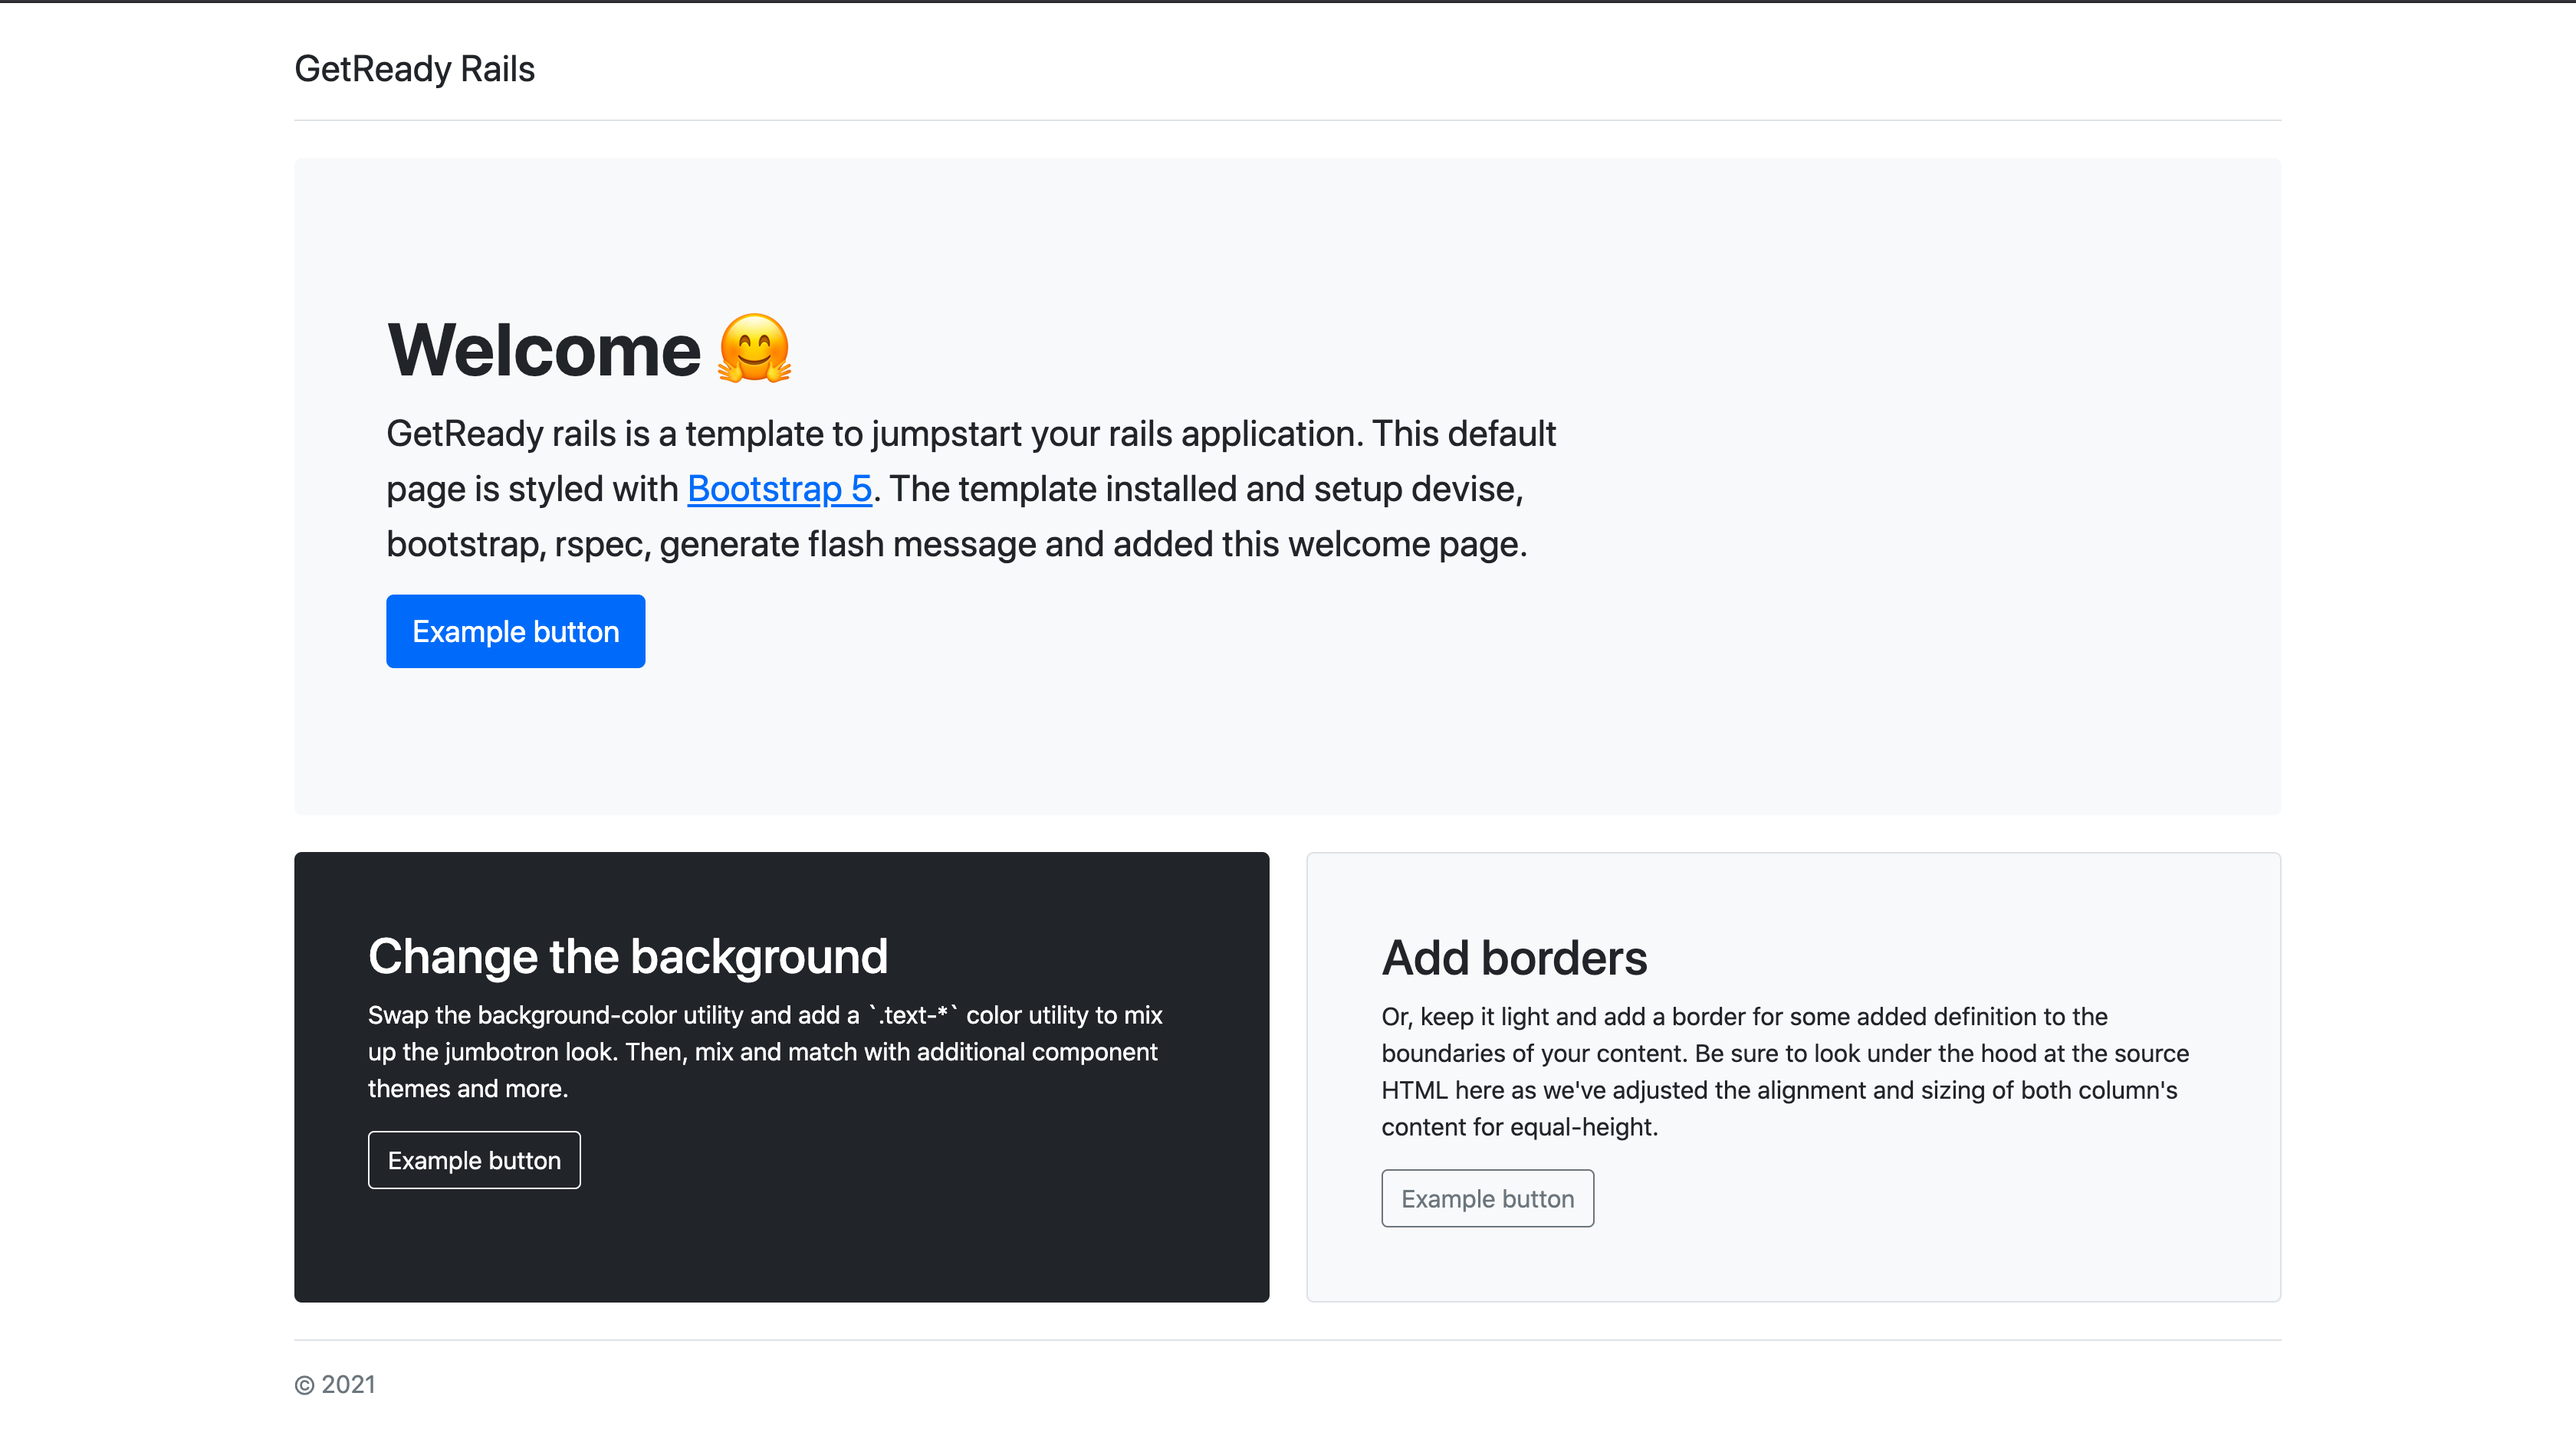
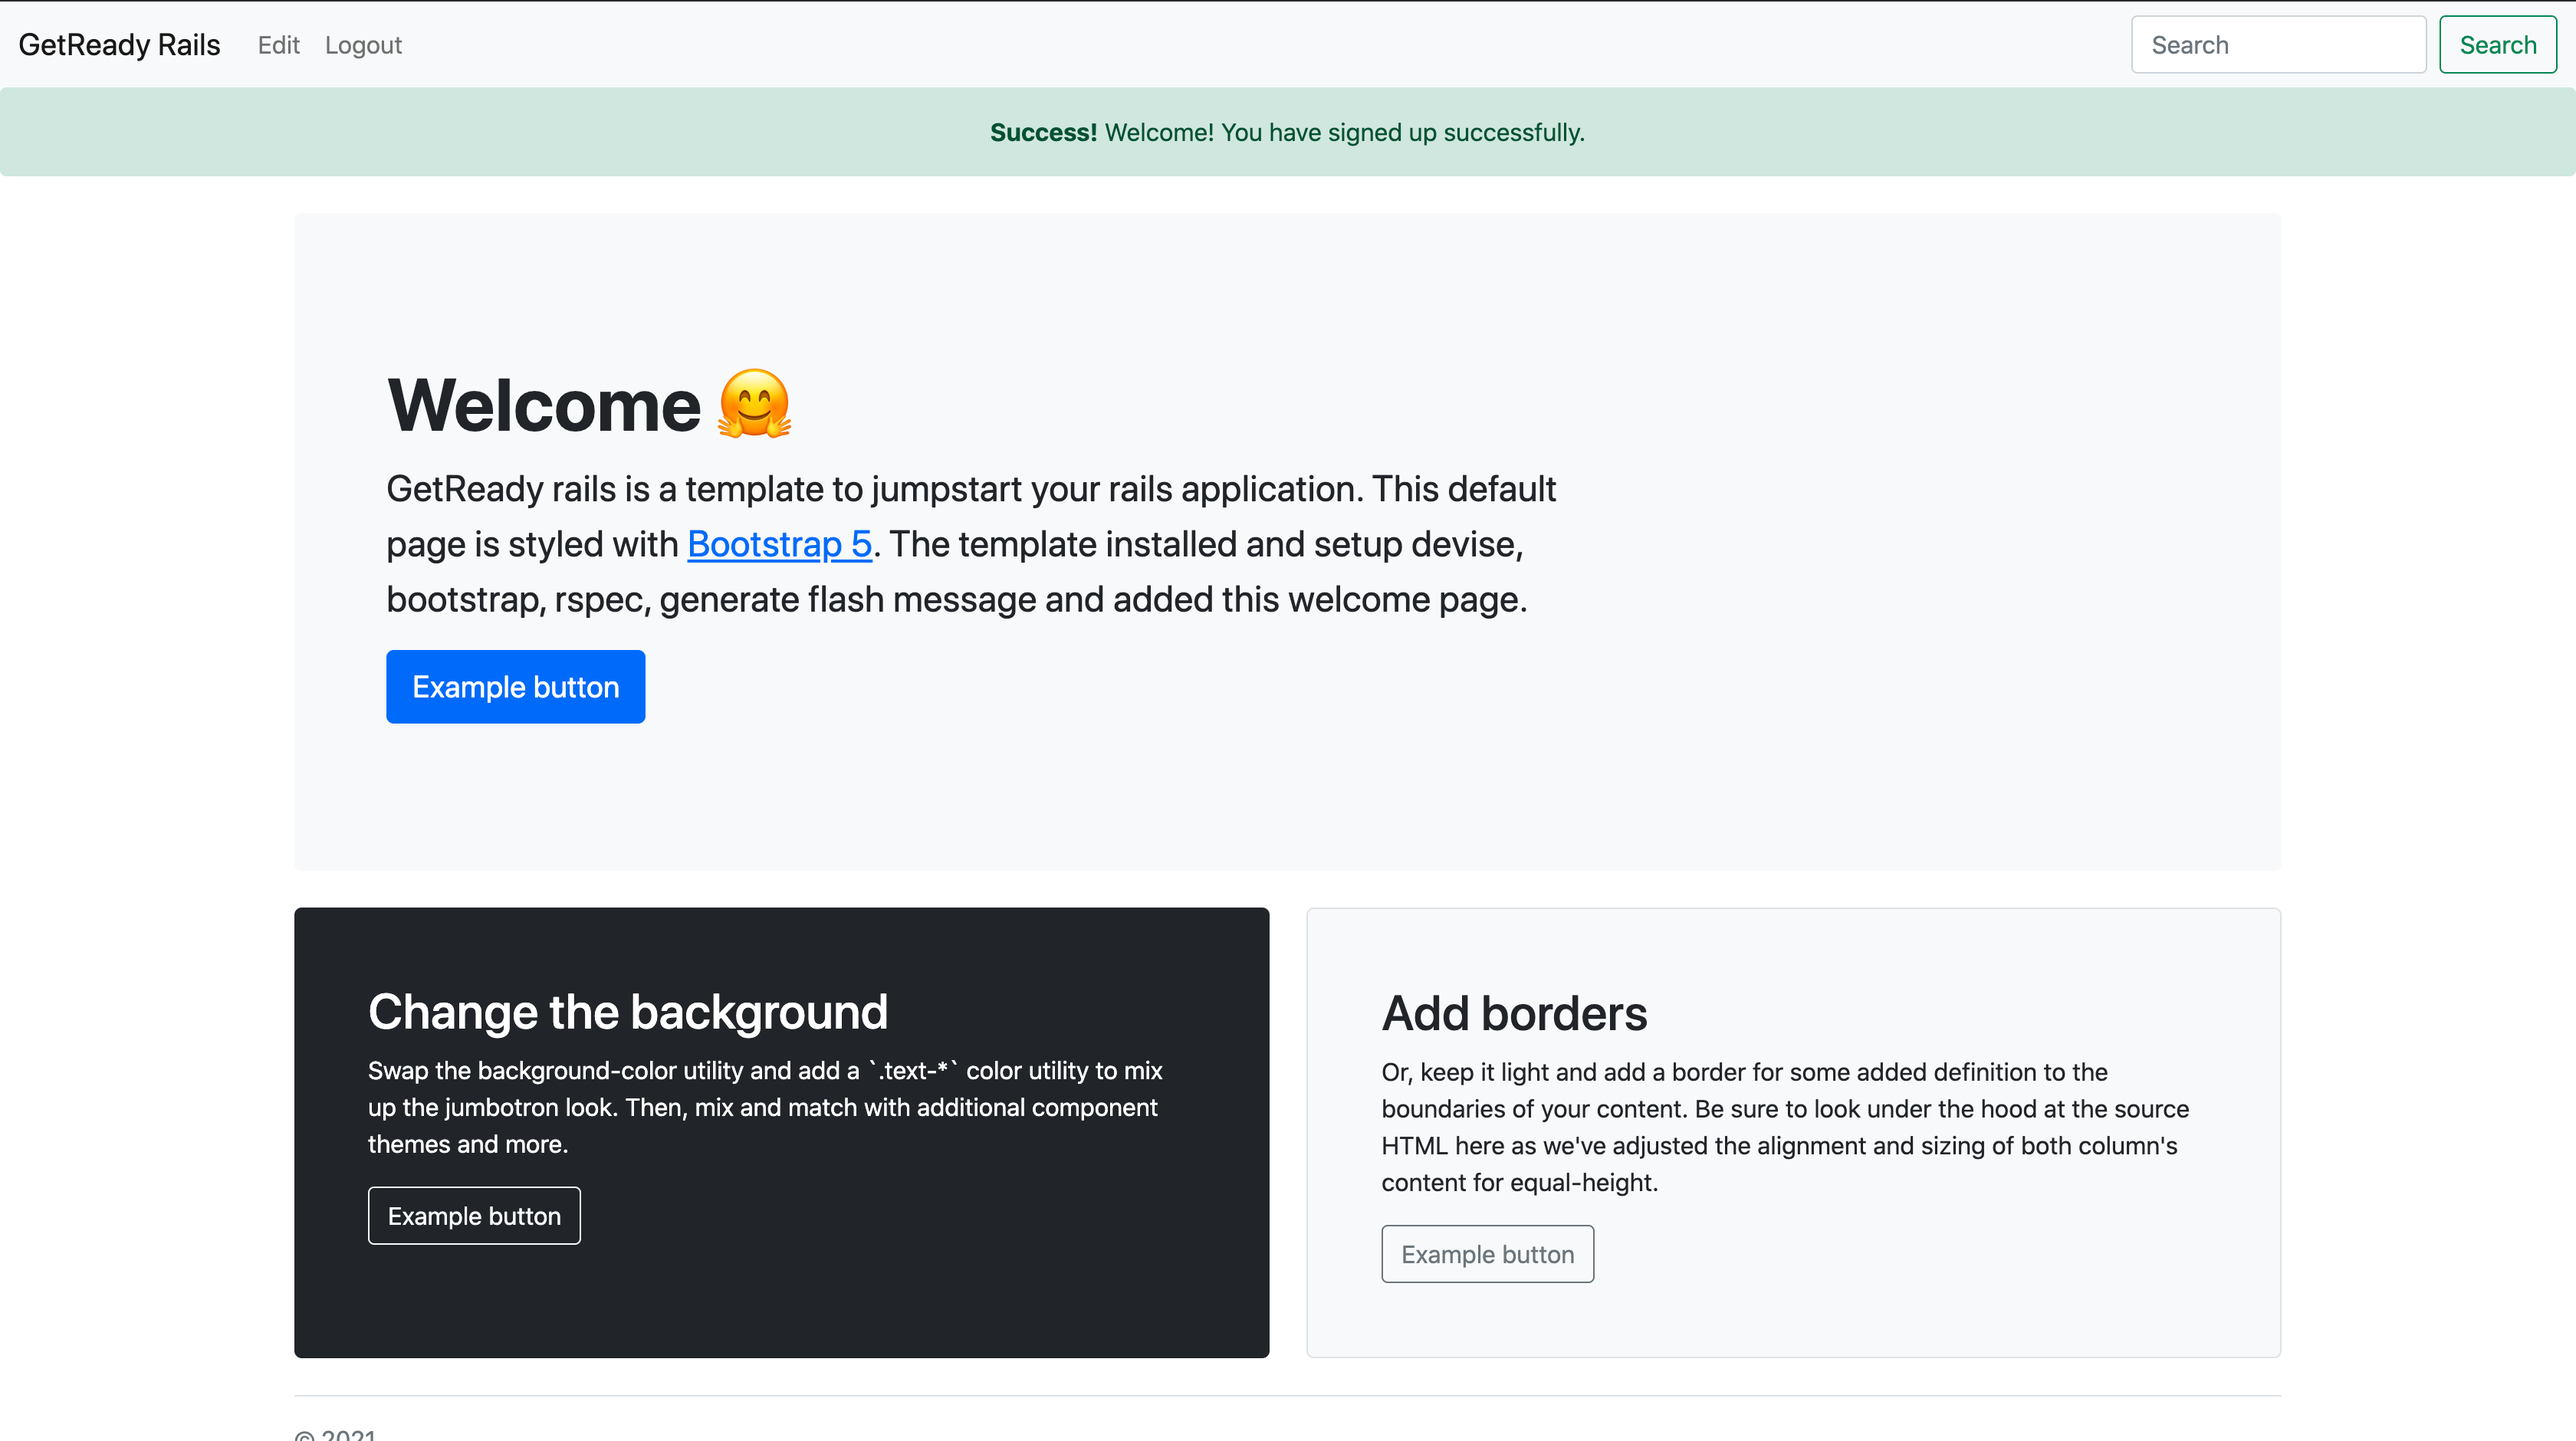
Style devise forms and add navbar for easy navigation

diff --git a/template.rb b/template.rb
@@ -32,7 +32,137 @@ def devise_setup
   say
   say "✅ Devise #{model_name} is created! and View generated", :green
   say
+
+  say
+  say "Styling devise forms for [registration, login and edit]", :green
+  say
+
+  devise_registration_form
+  devise_login_form
+  devise_edit_form
+  devise_password_form
 end
+
+def devise_registration_form
+  remove_file "app/views/devise/registrations/new.html.erb"
+  registration = <<~EOM
+  <div class="container mt-4 mb-4">
+    <h2>Sign up</h2>
+
+    <%= bootstrap_form_for(resource, as: resource_name, url: registration_path(resource_name), label_errors: true) do |f| %>
+
+        <%= f.email_field :email, autofocus: true, autocomplete: "email" %>
+        <%= f.password_field :password, autocomplete: "new-password" %>
+        <% if @minimum_password_length %>
+        <em>(<%= @minimum_password_length %> characters minimum)</em>
+        <% end %>
+
+        <%= f.password_field :password_confirmation, autocomplete: "new-password" %>
+
+        <div class="mt-4"></div>
+
+        <%= f.submit "Sign up", class: "btn btn-success" %>
+    <% end %>
+
+    <div class="mt-3"></div>
+    <%= render "devise/shared/links" %>
+  </div>
+  EOM
+  file "app/views/devise/registrations/new.html.erb", "#{registration}"
+end
+
+def devise_login_form
+  remove_file "app/views/devise/sessions/new.html.erb"
+  login = <<~EOM
+  <div class="container mt-4 mb-4">
+    <h2>Log in</h2>
+
+    <%= bootstrap_form_for(resource, as: resource_name, url: session_path(resource_name), label_errors: true) do |f| %>
+
+      <%= f.email_field :email, autofocus: true, autocomplete: "email" %>
+
+      <%= f.password_field :password, autocomplete: "current-password" %>
+
+      <% if devise_mapping.rememberable? %>
+        <%= f.check_box :remember_me %>
+      <% end %>
+
+      <div class="mt-4"></div>
+
+      <%= f.submit "Log in", class: "btn btn-success" %>
+    <% end %>
+
+    <div class="mt-3"></div>
+    <%= render "devise/shared/links" %>
+  </div>
+  EOM
+
+  file "app/views/devise/sessions/new.html.erb", "#{login}"
+end
+
+def devise_edit_form
+  remove_file "app/views/devise/registrations/edit.html.erb"
+
+  edit = <<~EOM
+  <div class="container mt-4 mb-4">
+    <h2>Edit <%= resource_name.to_s.humanize %></h2>
+
+    <%= bootstrap_form_for(resource, as: resource_name, url: registration_path(resource_name), html: { method: :put }, label_errors: true) do |f| %>
+
+      <%= f.email_field :email, autofocus: true, autocomplete: "email" %>
+
+      <% if devise_mapping.confirmable? && resource.pending_reconfirmation? %>
+        <div>Currently waiting confirmation for: <%= resource.unconfirmed_email %></div>
+      <% end %>
+
+
+      <%= f.password_field :password, autocomplete: "new-password" %>
+      <i>(leave blank if you don't want to change it)</i>
+      <% if @minimum_password_length %>
+        <br />
+        <em><%= @minimum_password_length %> characters minimum</em>
+      <% end %>
+
+      <%= f.password_field :password_confirmation, autocomplete: "new-password" %>
+
+        <%= f.password_field :current_password, autocomplete: "current-password" %>
+        <i>(we need your current password to confirm your changes)</i>
+
+      <div class="mt-4 mb-3 actions">
+        <%= f.submit "Update", class: "btn btn-success" %>
+      </div>
+    <% end %>
+
+    <h4>Cancel my account</h4>
+
+    <p>Unhappy? <%= button_to "Cancel my account", registration_path(resource_name), data: { confirm: "Are you sure?" }, method: :delete, class: "btn btn-danger btn-sm" %></p>
+
+    <div class="mt-3"></div>
+    <%= link_to "Back", :back %>
+  </div>
+  EOM
+
+  file "app/views/devise/registrations/edit.html.erb", "#{edit}"
+end
+
+def devise_password_form
+  remove_file "app/views/devise/passwords/new.html.erb"
+  password = <<~EOM
+  <div class="container mt-4 mb-4">
+    <h2>Forgot your password?</h2>
+
+    <%= bootstrap_form_for(resource, as: resource_name, url: password_path(resource_name), html: { method: :post }) do |f| %>
+        <%= f.email_field :email, autofocus: true, autocomplete: "email" %>
+        <div class="mt-4"></div>
+        <%= f.submit "Send me reset password instructions", class: "btn btn-success" %>
+    <% end %>
+    <div class="mt-3"></div>
+    <%= render "devise/shared/links" %>
+  </div>
+  EOM
+  file "app/views/devise/passwords/new.html.erb", "#{password}"
+end
+
 
 def setup_bootstrap
   say "In addition to bootstrap, we setup the boostrap-form gem"
@@ -91,14 +221,10 @@ def static_page
     generate "controller welcome index"
     route "root 'welcome#index'"
 
+    remove_file "app/views/welcome/index.html.erb"
+
     file "app/views/welcome/index.html.erb", <<~EOM
     <div class="container py-4">
-      <header class="pb-3 mb-4 border-bottom">
-        <a href="/" class="d-flex align-items-center text-dark text-decoration-none">
-          <span class="fs-4">GetReady Rails</span>
-        </a>
-      </header>
-
       <div class="p-5 mb-4 bg-light rounded-3">
         <div class="container-fluid py-5">
           <h1 class="display-5 fw-bold">Welcome 🤗</h1>
@@ -136,18 +262,59 @@ def static_page
   say
 end
 
+def navbar
+  say "Generating navbar partial in app/views/layouts folder", :blue
+  say
+  file "app/views/layouts/_navbar.html.erb", <<~EOM
+  <nav class="navbar navbar-expand-lg navbar-light bg-light">
+    <div class="container-fluid">
+      <a class="navbar-brand" href="/">GetReady Rails</a>
+      <button class="navbar-toggler" type="button" data-bs-toggle="collapse" data-bs-target="#navbarSupportedContent" aria-controls="navbarSupportedContent" aria-expanded="false" aria-label="Toggle navigation">
+        <span class="navbar-toggler-icon"></span>
+      </button>
+      <div class="collapse navbar-collapse" id="navbarSupportedContent">
+        <ul class="navbar-nav me-auto mb-2 mb-lg-0">
+          <% unless user_signed_in? %>
+            <li class="nav-item">
+              <%= link_to "Register", new_user_registration_path, class: "nav-link", aria: {current: "page"}  %>
+            </li>
+            <li class="nav-item">
+              <%= link_to "Login", new_user_session_path, class: "nav-link" %>
+            </li>
+          <% end %>
+          <% if user_signed_in? %>
+            <li class="nav-item">
+              <%= link_to "Edit", edit_user_registration_path, class: "nav-link", aria: {current: "page"}  %>
+            </li>
+            <li class="nav-item">
+              <%= link_to "Logout", destroy_user_session_path, method: :delete, class: "nav-link" %>
+            </li>
+          <% end %>
+        </ul>
+        <form class="d-flex">
+          <input class="form-control me-2" type="search" placeholder="Search" aria-label="Search">
+          <button class="btn btn-outline-success" type="submit">Search</button>
+        </form>
+      </div>
+    </div>
+  </nav>
+  EOM
+
+  inject_into_file "app/views/layouts/application.html.erb", "\n\t <%= render 'layouts/navbar' %>\n", after: "<body>"
+end
+
 def flash_message
-  say "Generating flash messages partials in app/views/layouts folder", :blue
+  say "Generating flash messages partial in app/views/layouts folder", :blue
   say
   file "app/views/layouts/_flash_messages.html.erb", <<~EOM
     <% flash.each do |key, message| %>
-      <div class="text-center alert alert-<%= key %> alert-dismissible fade show" role="alert">
+      <div class="text-center alert alert-<%= key %> alert-dismissible fade show rounded" role="alert">
         <strong><%= key == 'notice' ? 'Success!' : 'Error!' %></strong>  <%= message %>
       </div>
     <% end %>
   EOM
 
-  inject_into_file "app/views/layouts/application.html.erb", "\n<%= render 'layouts/flash_messages' %>\n", before: "<%= yield %>"
+  inject_into_file "app/views/layouts/application.html.erb", "\n\t <%= render 'layouts/flash_messages' %>\n", after: "<%= render 'layouts/navbar' %>"
 end
 
 def rspec_setup
@@ -207,6 +374,7 @@ end
 after_bundle do
   add_gems
   setup_bootstrap
+  navbar
   flash_message
   static_page
   rspec_setup

diff --git a/README.md b/README.md
@@ -22,16 +22,18 @@ This template is useful only for **Rails 6.1+** apps
   - 🎊 Bootstrap Form, 4.5
   - 🎊 RSpec, 5
 - 🎊 Configure RSpec generators
-- 🎊 Generate a welcome controller, index view and set root path
+- 🎊 Generate devise for `your_model_name`
+- 🎊 Style devise forms with [bootstrap_form](https://github.com/bootstrap-ruby/bootstrap_form) for 
+    - registrations
+    - sessions
+    - passwords 
+- 🎊 Generate a welcome 
+    - controller
+    - index view
+- 🎊 Set root path to `welcome#index`
 - 🎊 Add flash messages partial
-- 🎊 Git commit your initial message
-
-## Example with the raw URL
-The following script was used to generate the sample application `get_ready_app`
-
-```shell
-  rails new get_ready -m https://raw.githubusercontent.com/earnestaddae/get_ready/main/template.rb
-```
+- 🎊 Add bootstrap navbar partial
+- 🎊 Make initial git commit
 
 ## Welcome page
 ![Welcome Page](https://github.com/earnestaddae/get_ready/blob/main/get_ready_rails.png)
